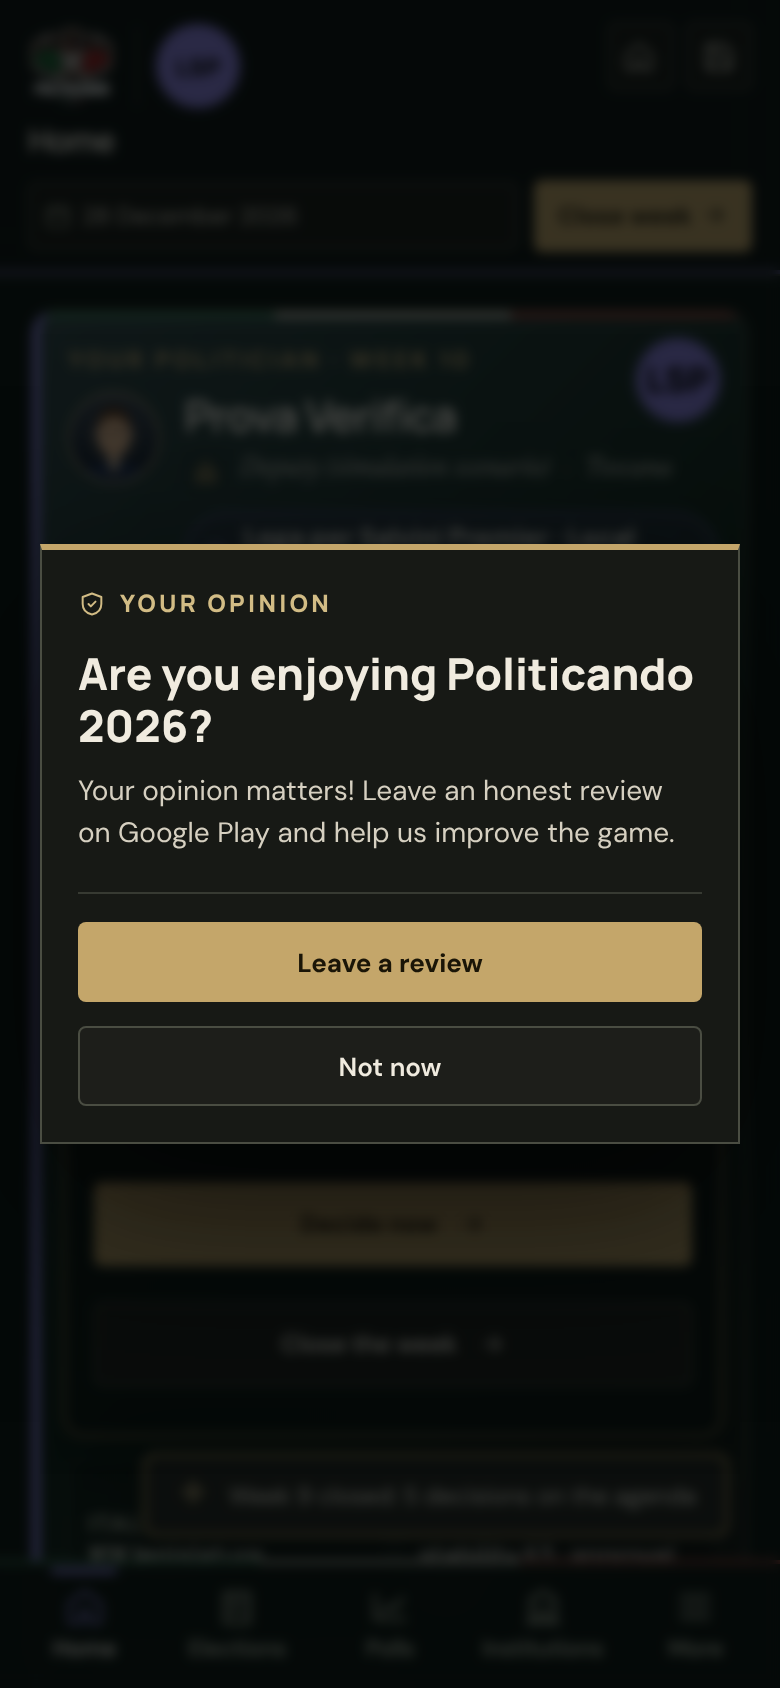
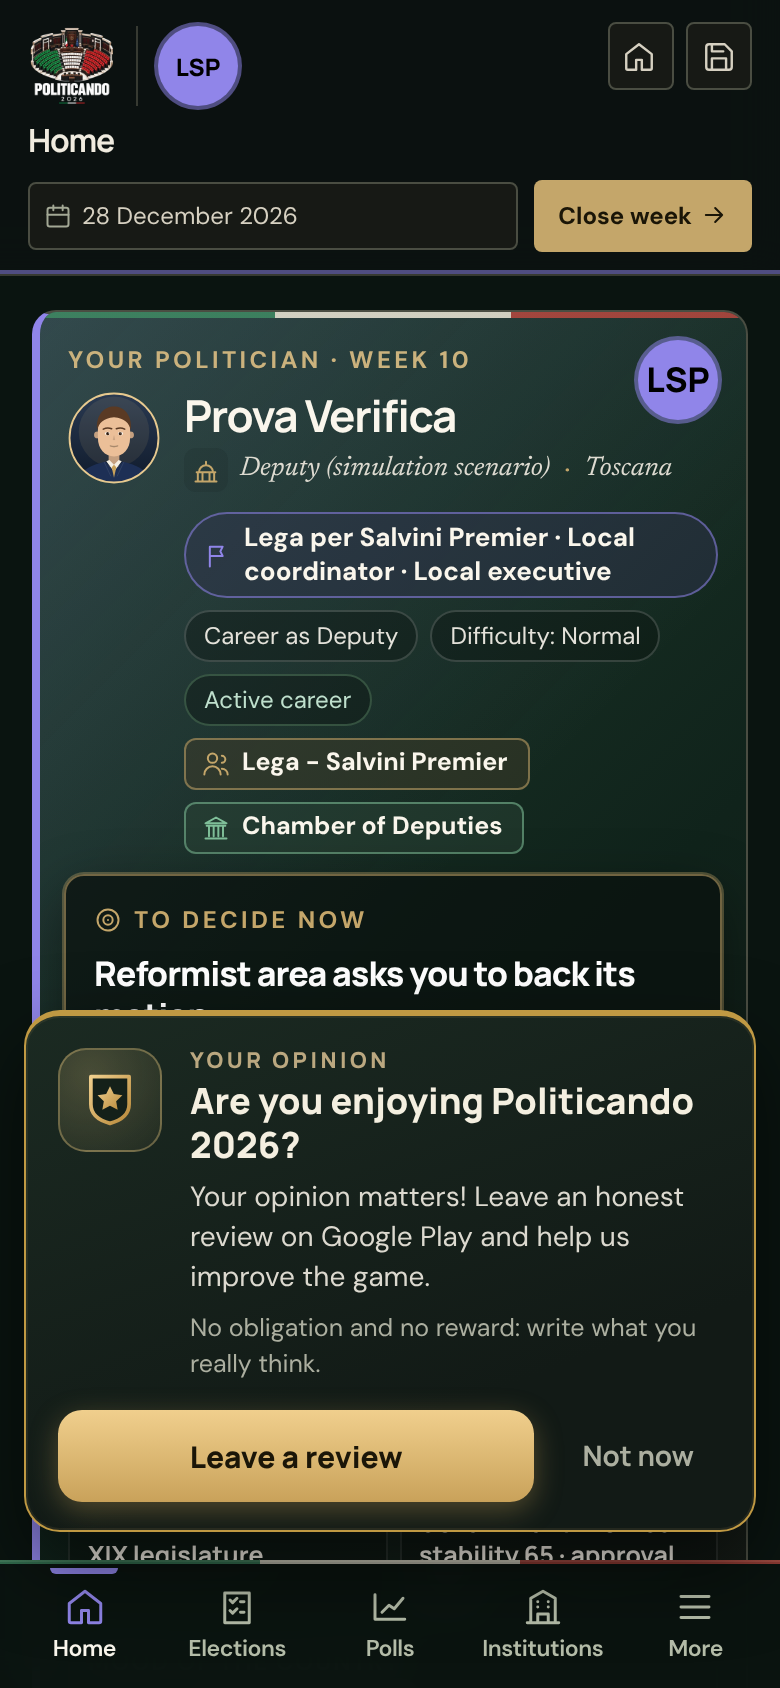
feat(recensione): invito su Google Play come scheda non bloccante nello stile del gioco, collegamento reale, test e screenshot
Claude-Session: https://claude.ai/code/session_016uEMmvEhNEdgBXambUCwpu

diff --git a/src/ui/review-card.js b/src/ui/review-card.js
@@ -1,0 +1,40 @@
+// The invitation to review the game on Google Play, as a card of the game's own style (not the generic confirmation dialog): a quiet sheet at the bottom of the screen (above the tab bar on a phone, centred on a
+// tablet) that never dims or blocks the game, with the shield mark of Politicando, a short text, a gold button that opens the Play Store page and a plain «Non ora». It is shown only in a quiet moment (the caller
+// hides it while a scene, a vote, the night or a dialog is on, and brings it back after) and answers to Escape. The rules (once for each installation, enough use, recorded as shown first) are in data/repositories/review-prompt.js.
+import { translateTree } from '../core/i18n.js?v=20261113-8';
+
+const esc = text => String(text).replace(/[&<>"]/g, char => ({ '&': '&amp;', '<': '&lt;', '>': '&gt;', '"': '&quot;' })[char]);
+const MARK = '<svg viewBox="0 0 64 64" width="34" height="34" aria-hidden="true"><defs><linearGradient id="rv-g" x1="0" y1="0" x2="1" y2="1"><stop offset="0" stop-color="#f0cf8d"/><stop offset="1" stop-color="#b8893a"/></linearGradient></defs><path d="M14 10h36v26c0 9-7 15-18 18-11-3-18-9-18-18z" fill="#142019" stroke="url(#rv-g)" stroke-width="3.5" stroke-linejoin="round"/><path d="M32 19l3.6 7.4 8.1 1.1-5.9 5.7 1.4 8-7.2-3.9-7.2 3.9 1.4-8-5.9-5.7 8.1-1.1z" fill="url(#rv-g)"/></svg>';
+
+export function reviewCardHtml(url) {
+  return `<aside class="review-card" data-review-card role="dialog" aria-modal="false" aria-labelledby="review-title" aria-describedby="review-body">
+    <div class="review-mark">${MARK}</div>
+    <div class="review-copy">
+      <span class="review-kicker">IL TUO PARERE</span>
+      <h2 id="review-title">Ti sta piacendo Politicando 2026?</h2>
+      <p id="review-body">Il tuo parere è importante! Lascia una recensione sincera su Google Play e aiutaci a migliorare il gioco.</p>
+      <p class="review-fine">Nessun obbligo e nessun premio: scrivi quello che pensi davvero.</p>
+    </div>
+    <div class="review-actions">
+      <a class="review-primary" data-review-open href="${esc(url)}" target="_blank" rel="noopener noreferrer">Lascia una recensione</a>
+      <button type="button" class="review-later" data-review-later>Non ora</button>
+    </div>
+  </aside>`;
+}
+
+// Mounts the card on the page (outside the game's root, so a redraw of the game never removes it). `onAnswer('review' | 'later')` is called once. Returns { setQuiet(boolean), close() }.
+export function mountReviewCard({ url, onAnswer, parent = document.body }) {
+  const holder = document.createElement('div');
+  holder.innerHTML = reviewCardHtml(url);
+  const card = holder.firstElementChild;
+  let answered = false;
+  const answer = value => { if (answered) return; answered = true; document.removeEventListener('keydown', onKey); card.classList.add('is-leaving'); setTimeout(() => card.remove(), 220); onAnswer?.(value); };
+  const onKey = event => { if (event.key === 'Escape' && !card.hidden) answer('later'); };
+  card.querySelector('[data-review-open]').addEventListener('click', () => answer('review'));   // (the link itself opens the Play Store page)
+  card.querySelector('[data-review-later]').addEventListener('click', () => answer('later'));
+  document.addEventListener('keydown', onKey);
+  parent.appendChild(card);
+  translateTree(card);
+  requestAnimationFrame(() => card.classList.add('is-in'));
+  return { card, setQuiet(quiet) { card.hidden = !quiet; }, close: () => answer('later') };
+}

diff --git a/src/theme.css b/src/theme.css
@@ -1412,3 +1412,24 @@ html.platform-ios .sx-tabs, html.platform-ios .gov-nav { top: env(safe-area-inse
 html.platform-ios .mobile-sheet-panel, html.platform-ios .wizard-backdrop, html.platform-ios .report-backdrop { padding-top: max(20px, env(safe-area-inset-top, 0px)); }
 .weekly-advance-note { flex: none; margin: 0; padding: 10px 22px; border-top: 1px solid var(--line-strong, var(--line)); background: rgba(240, 207, 133, .08); font-size: .92rem; line-height: 1.4; }
 @media (max-width: 600px) { .weekly-advance-note { padding: 10px 16px; } }
+
+/* ---------- the invitation to review the game on Google Play (ui/review-card.js): a quiet card, never a blocking dialog ---------- */
+.review-card { position: fixed; z-index: 55; left: 12px; right: 12px; bottom: calc(78px + env(safe-area-inset-bottom, 0px)); margin: 0 auto; max-width: 460px; display: grid; grid-template-columns: auto 1fr; gap: 6px 14px; padding: 16px 16px 14px; color: var(--ink-soft, #dcd9cf); background: linear-gradient(160deg, #1b2a22 0%, #121a16 70%); border: 1px solid var(--gold-line, #c09943); border-top-width: 3px; border-radius: 18px; box-shadow: 0 18px 40px rgba(0, 0, 0, .55), 0 0 0 1px rgba(240, 207, 133, .08) inset; opacity: 0; transform: translateY(18px); transition: opacity .22s ease, transform .22s ease; }
+.review-card[hidden] { display: none; }
+.review-card.is-in { opacity: 1; transform: none; }
+.review-card.is-leaving { opacity: 0; transform: translateY(18px); }
+.review-mark { grid-row: span 1; display: grid; place-items: center; width: 52px; height: 52px; border-radius: 14px; background: radial-gradient(circle at 30% 25%, rgba(240, 207, 133, .22), rgba(240, 207, 133, .04)); border: 1px solid rgba(240, 207, 133, .35); }
+.review-copy { min-width: 0; }
+.review-kicker { display: block; font: 800 11px/1 Manrope, sans-serif; letter-spacing: .16em; color: var(--label, #bba880); margin-bottom: 4px; }
+.review-card h2 { margin: 0 0 4px; font: 800 18px/1.25 Manrope, sans-serif; color: #f4efe0; }
+.review-card p { margin: 0; font-size: 14px; line-height: 1.45; }
+.review-card .review-fine { margin-top: 6px; font-size: 12.5px; color: var(--ink-quiet, #acafa0); }
+.review-actions { grid-column: 1 / -1; display: grid; grid-template-columns: 1fr auto; gap: 10px; align-items: center; margin-top: 8px; }
+.review-primary { display: inline-flex; align-items: center; justify-content: center; min-height: 46px; padding: 0 18px; border-radius: 12px; font: 800 15px/1 Manrope, sans-serif; text-decoration: none; color: #1b1608; background: linear-gradient(180deg, #f0cf8d, #c9a25a); box-shadow: 0 4px 14px rgba(201, 162, 90, .35); }
+.review-primary:active { transform: translateY(1px); filter: brightness(.95); }
+.review-later { min-height: 46px; padding: 0 14px; border: 0; border-radius: 12px; background: transparent; color: var(--ink-quiet, #acafa0); font: 700 14px/1 Manrope, sans-serif; cursor: pointer; }
+.review-later:hover, .review-later:focus-visible { color: #f4efe0; background: rgba(255, 255, 255, .06); }
+.review-primary:focus-visible, .review-later:focus-visible { outline: 2px solid #f0cf8d; outline-offset: 2px; }
+@media (min-width: 700px) { .review-card { bottom: 24px; max-width: 520px; } }
+html[data-ui-motion="off"] .review-card, html[data-scene-motion="off"] .review-card { transition: none; }
+@media (prefers-reduced-motion: reduce) { .review-card { transition: none; } }

diff --git a/src/ui/app.js b/src/ui/app.js
@@ -72,6 +72,7 @@ import { createRewardsService } from './rewards-service.js?v=20261113-8';
 import { createAdMobAdapter } from '../data/repositories/admob-adapter.js?v=20261113-8';
 import { createAdsManager, interruptible } from '../data/repositories/ads-manager.js?v=20261113-8';
 import { createReviewPrompt } from '../data/repositories/review-prompt.js?v=20261113-8';
+import { mountReviewCard } from './review-card.js?v=20261113-8';
 import { patchRewardsPage, renderRewardNotice, renderRewardsPage } from './rewards-page.js?v=20261113-8';
 
 // The destinations of the game, by theme. On computers the sidebar lists the eight and opens the pages of the current one; on phones the
@@ -2832,12 +2833,14 @@ export function mountApp(root, store, { retryData = null, refreshReference = nul
   // The invitation to review the game on Google Play (data/repositories/review-prompt.js): Android app only, once for each installation, after enough use, in a quiet moment (after the weekly report is closed).
   const reviewPrompt = createReviewPrompt({ isPlayStoreApp: () => /Android/i.test(globalThis.navigator?.userAgent ?? '') && isNativeApp() });
   reviewPrompt.noteLaunch();
+  let reviewCard = null;
+  const quietNow = () => { const state = store.getState(); return Boolean(state.game && !state.scene && !state.night && !state.campaign && !wizard && !menu.open && !pendingConfirm && !reportOpen && !newsPopup && !pendingCelebration(state.game) && onboarding().tour === 'done'); };
   const offerReview = () => {
-    const state = store.getState();
-    const quiet = Boolean(state.game && !state.scene && !state.night && !state.campaign && !wizard && !menu.open && !pendingConfirm && !reportOpen && !newsPopup && !pendingCelebration(state.game) && onboarding().tour === 'done');
-    if (!reviewPrompt.due({ quiet, weeks: state.game?.week?.index ?? 0 }) || !reviewPrompt.markShown()) return;
-    askConfirm({ kicker: 'IL TUO PARERE', title: 'Ti sta piacendo Politicando 2026?', body: 'Il tuo parere è importante! Lascia una recensione sincera su Google Play e aiutaci a migliorare il gioco.', confirmLabel: 'Lascia una recensione', cancelLabel: 'Non ora' })
-      .then(answer => { reviewPrompt.markAnswered(answer.ok ? 'review' : 'later'); if (answer.ok) globalThis.open?.(reviewPrompt.url, '_blank', 'noopener'); });
+    if (reviewCard || !reviewPrompt.due({ quiet: quietNow(), weeks: store.getState().game?.week?.index ?? 0 }) || !reviewPrompt.markShown()) return;   // recorded as shown BEFORE the card appears
+    let watch = null;
+    reviewCard = mountReviewCard({ url: reviewPrompt.url, onAnswer: answer => { reviewPrompt.markAnswered(answer); clearInterval(watch); reviewCard = null; } });
+    // the card is only there in a quiet moment: it hides while a scene, a vote, the night, a dialog or a menu is on and comes back after (it never blocks the game)
+    watch = setInterval(() => reviewCard?.setQuiet(quietNow()), 800);
   };
   const adPlatform = /Android/i.test(globalThis.navigator?.userAgent ?? '') && isNativeApp() ? 'android' : 'none';
   const adMob = createAdMobAdapter({ platform: adPlatform });

diff --git a/src/data/i18n/en-ui-8.js b/src/data/i18n/en-ui-8.js
@@ -7773,6 +7773,7 @@ export const PHRASES = [
   ["Ti sta piacendo Politicando 2026?", "Are you enjoying Politicando 2026?"],
   ["Il tuo parere è importante! Lascia una recensione sincera su Google Play e aiutaci a migliorare il gioco.", "Your opinion matters! Leave an honest review on Google Play and help us improve the game."],
   ["Lascia una recensione", "Leave a review"],
+  ["Nessun obbligo e nessun premio: scrivi quello che pensi davvero.", "No obligation and no reward: write what you really think."],
   ["Non ora", "Not now"],
   ["Capitale politico: # su # (il 60%) passano alla campagna, # restano a te. I fondi sono un’altra risorsa.", "Political capital: # of # (60%) go to the campaign, # stay with you. Funds are a separate resource."],
   ["capitale politico # su # (60%) alla campagna, # restano", "political capital # of # (60%) to the campaign, # remain"],

diff --git a/src/data/release-pairs.js b/src/data/release-pairs.js
@@ -484,6 +484,7 @@ export const ALL_PAIRS = [
   ['Ti sta piacendo Politicando 2026?', 'Are you enjoying Politicando 2026?'],
   ['Il tuo parere è importante! Lascia una recensione sincera su Google Play e aiutaci a migliorare il gioco.', 'Your opinion matters! Leave an honest review on Google Play and help us improve the game.'],
   ['Lascia una recensione', 'Leave a review'],
+  ['Nessun obbligo e nessun premio: scrivi quello che pensi davvero.', 'No obligation and no reward: write what you really think.'],
   ['Non ora', 'Not now'],
   ['Capitale politico: # su # (il 60%) passano alla campagna, # restano a te. I fondi sono un’altra risorsa.', 'Political capital: # of # (60%) go to the campaign, # stay with you. Funds are a separate resource.'],
   ['capitale politico # su # (60%) alla campagna, # restano', 'political capital # of # (60%) to the campaign, # remain'],
